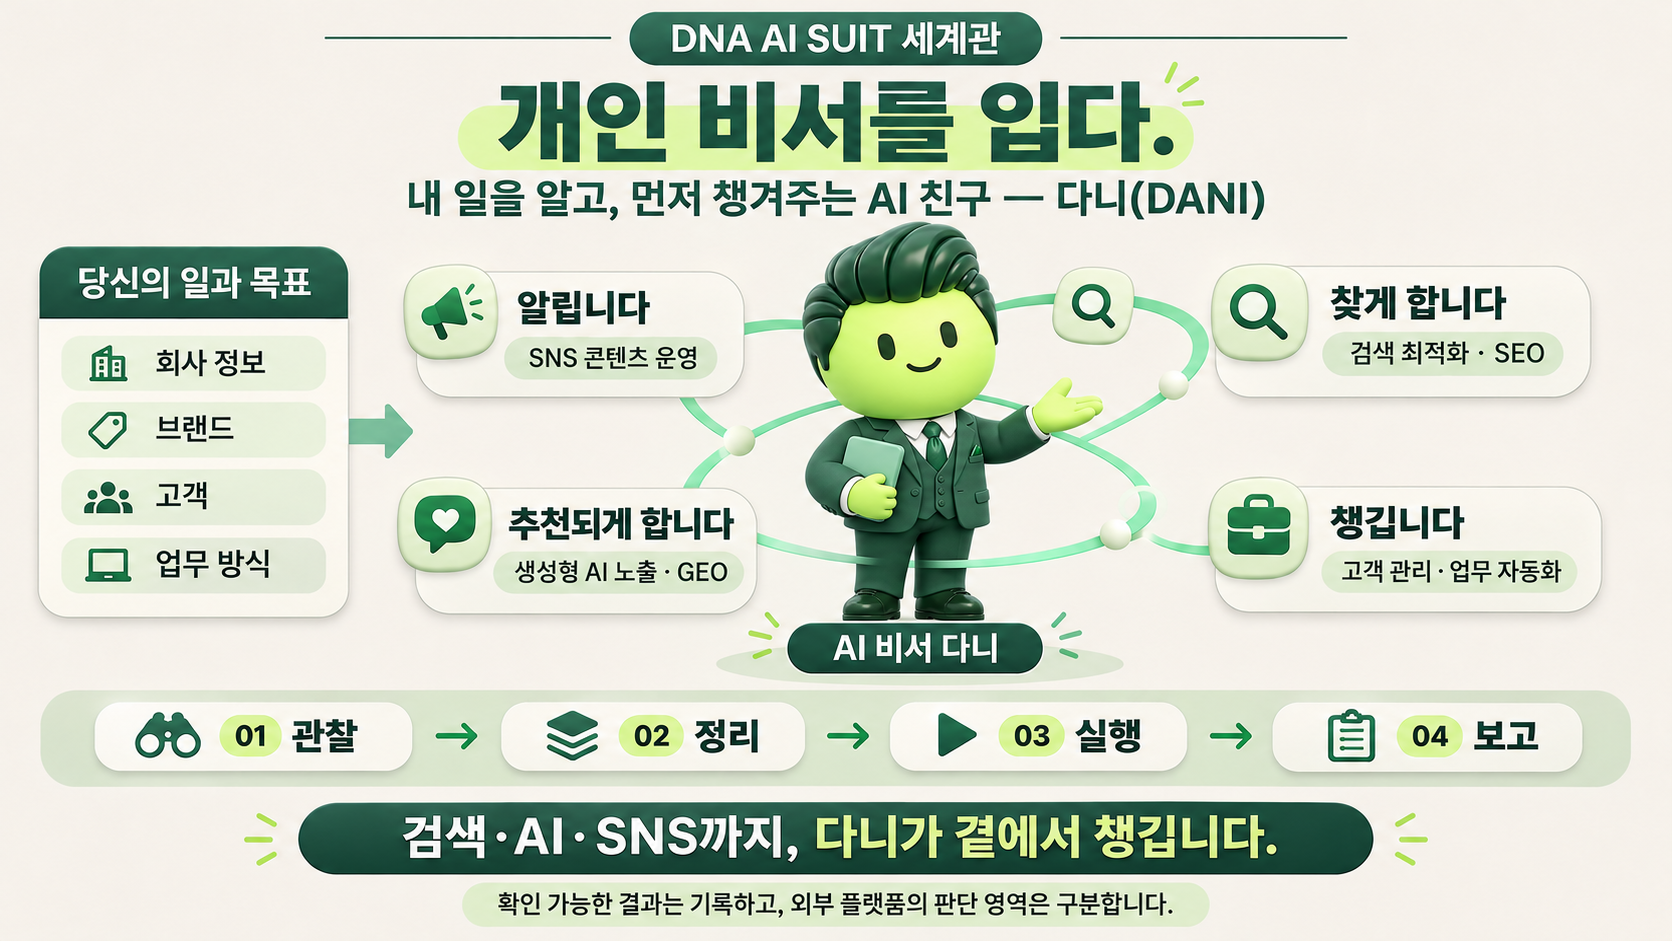
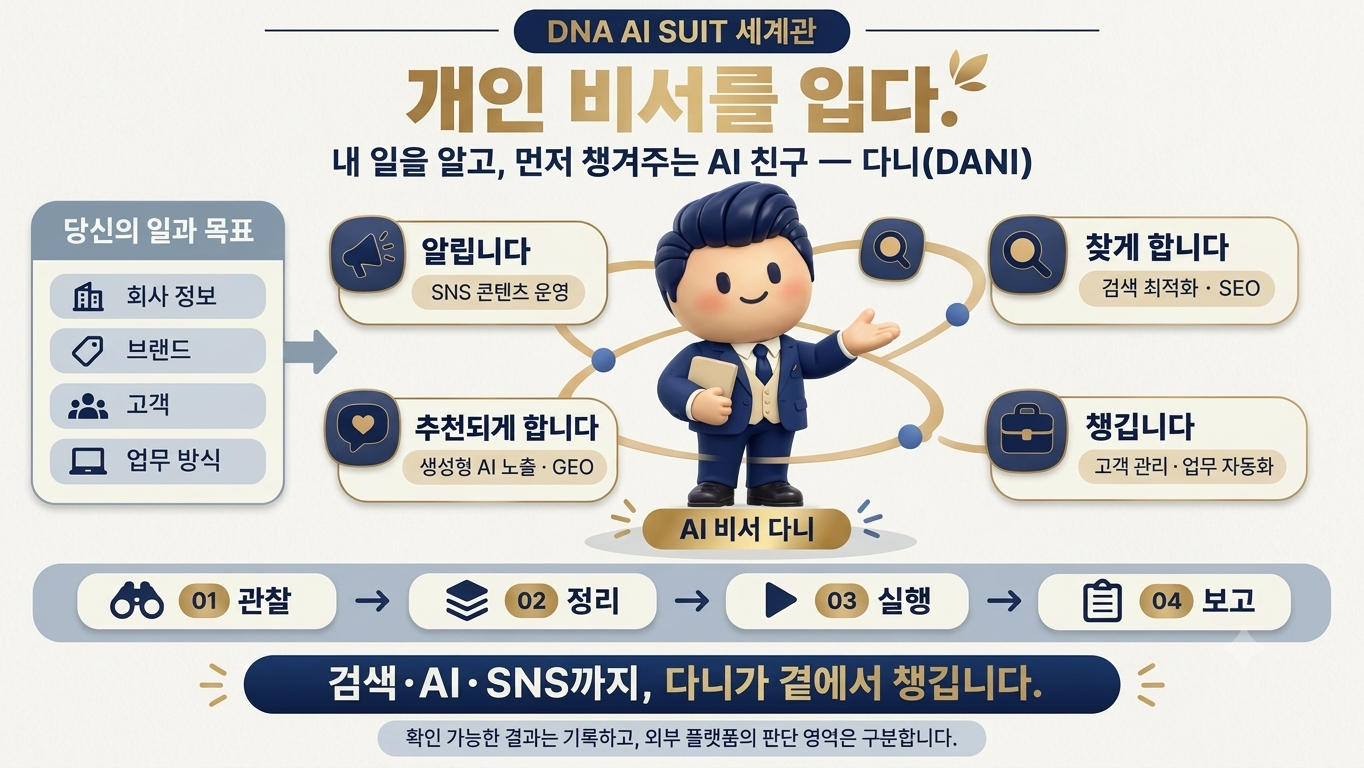
Adopt navy and champagne gold brand system

diff --git a/style.css b/style.css
@@ -1,13 +1,13 @@
 :root {
-  --ink: #202522;
-  --muted: #465049;
-  --paper: #f5f3ee;
-  --sage: #e9eee7;
-  --line: #d9dcd4;
-  --sage-line: #bacbb9;
-  --green: #2d5142;
-  --green-dark: #254536;
-  --lime: #cde1b9;
+  --ink: #10264a;
+  --muted: #4f6076;
+  --paper: #f7f4ec;
+  --sage: #e8edf2;
+  --line: #d5dbe2;
+  --sage-line: #b9c5d2;
+  --green: #15315e;
+  --green-dark: #0d2348;
+  --lime: #d7be87;
   --serif: 'Noto Serif KR', serif;
   --sans: 'DM Sans', 'Noto Sans KR', sans-serif;
 }
@@ -726,6 +726,88 @@ footer .brand { color: var(--ink); }
 .footer-meta-link {
   border-bottom: 1px solid var(--line);
   padding-bottom: 2px;
+}
+
+/* Navy · champagne gold brand system */
+.main-nav a:hover,
+.inline-link:hover,
+.text-link:hover,
+.footer-meta-link:hover { color: #b38b43; }
+.button-dark { background: #15315e; }
+.button-dark:hover { background: #0d2348; }
+.button-light { background: #d7be87; color: #10264a; }
+.button-light:hover { background: #e5d2a8; }
+.hero-bottom { color: #6e7e92; }
+.art-caption,
+.art-index,
+.section-meta,
+.capabilities span,
+.service-no,
+.service-type,
+.service-row h3 small,
+.service-arrow,
+.package-grid article > span,
+.package-proof span,
+.approach li > span,
+.faq-no { color: #58739b; }
+.meta-rule { background: #b99a5e; }
+.brand-operator {
+  border-left-color: #c5a45e;
+  background: rgba(197, 164, 94, .08);
+}
+.tags span {
+  border-color: #bdc8d4;
+  color: #27466f;
+  background: rgba(255,255,255,.36);
+}
+.services { background: #e8edf2; }
+.service-list,
+.service-row,
+.table-scroll,
+.service-matrix th,
+.service-matrix td,
+.faq-list,
+.faq-item { border-color: #b9c5d2; }
+.service-matrix thead th { background: rgba(21, 49, 94, .06); }
+.search-package,
+.dani-world { background: #fbf8f1; }
+.proof-note { border-left-color: #c5a45e; }
+.contact { background: #0d2348; }
+.contact .eyebrow,
+.scope-label { color: #e4cc99; }
+.contact h2 em { color: #d7be87; }
+.contact-lead,
+.contact-note { color: #e4e9ef; }
+.contact-panel {
+  border-color: rgba(215, 190, 135, .34);
+  background: rgba(4, 19, 45, .36);
+}
+.scope-chip {
+  color: #f2f4f7;
+  border-color: rgba(215, 190, 135, .48);
+}
+.scope-chip:hover { border-color: #d7be87; }
+.scope-chip.is-selected {
+  background: #d7be87;
+  color: #10264a;
+  border-color: #d7be87;
+}
+.brief-preview {
+  border-color: rgba(215, 190, 135, .25);
+  color: #f4f1ea;
+}
+.dani-stage {
+  background:
+    radial-gradient(circle at 50% 45%, rgba(232, 215, 180, .92) 0 16%, rgba(180, 194, 210, .50) 39%, transparent 64%),
+    linear-gradient(145deg, #f6f2e9 0%, #dfe6ed 100%);
+}
+.dani-stage::before,
+.dani-stage::after { border-color: rgba(21, 49, 94, .23); }
+.dani-stage::after { border-color: rgba(197, 164, 94, .42); }
+.dani-hero { filter: drop-shadow(0 24px 34px rgba(13, 35, 72, .20)); }
+.dani-world-figure {
+  border-color: #d8d1c2;
+  box-shadow: 0 20px 50px rgba(16, 38, 74, .10);
 }
 
 @media (max-width: 900px) {

diff --git a/index.html b/index.html
@@ -19,15 +19,15 @@
   <meta property="og:title" content="DNA AI 슈트 | 개인 비서를 입다">
   <meta property="og:description" content="검색·생성형 AI·SNS를 하나의 고객 유입 흐름으로 연결하는 AI 마케팅·브랜딩 파트너입니다.">
   <meta property="og:url" content="https://alexchoi21.github.io/">
-  <meta property="og:image" content="https://alexchoi21.github.io/og-image-suit.png">
-  <meta property="og:image:width" content="1731">
-  <meta property="og:image:height" content="909">
-  <meta property="og:image:alt" content="DNA AI 슈트 — AI 마케팅, AI 보안, AI 플랫폼, AI SaaS 서비스">
+  <meta property="og:image" content="https://alexchoi21.github.io/dani-world-infographic.png">
+  <meta property="og:image:width" content="1364">
+  <meta property="og:image:height" content="768">
+  <meta property="og:image:alt" content="DNA AI 슈트 세계관 — 개인 비서를 입다, AI 비서 다니">
 
   <meta name="twitter:card" content="summary_large_image">
   <meta name="twitter:title" content="DNA AI 슈트 | 개인 비서를 입다">
   <meta name="twitter:description" content="AI 마케팅 자동화, 네이버 상위노출·챗GPT 추천(SEO/GEO), 기업용 AI 보안, 맞춤형 AI 플랫폼 및 AI SaaS 서비스 구축">
-  <meta name="twitter:image" content="https://alexchoi21.github.io/og-image-suit.png">
+  <meta name="twitter:image" content="https://alexchoi21.github.io/dani-world-infographic.png">
 
   <link rel="icon" type="image/svg+xml" href="favicon.svg">
   <link rel="preconnect" href="https://fonts.googleapis.com">
@@ -57,7 +57,7 @@
           "width": 1200,
           "height": 360
         },
-        "image": "https://alexchoi21.github.io/og-image-suit.png",
+        "image": "https://alexchoi21.github.io/dani-world-infographic.png",
         "description": "DNA AI 슈트는 검색엔진·생성형 AI·SNS에서 고객이 브랜드를 발견하고 신뢰하도록 SEO·GEO 진단, 콘텐츠 자동화, 공식 정보 정비와 성과 확인 흐름을 설계하는 AI 마케팅 파트너입니다.",
         "areaServed": {
           "@type": "Country",
